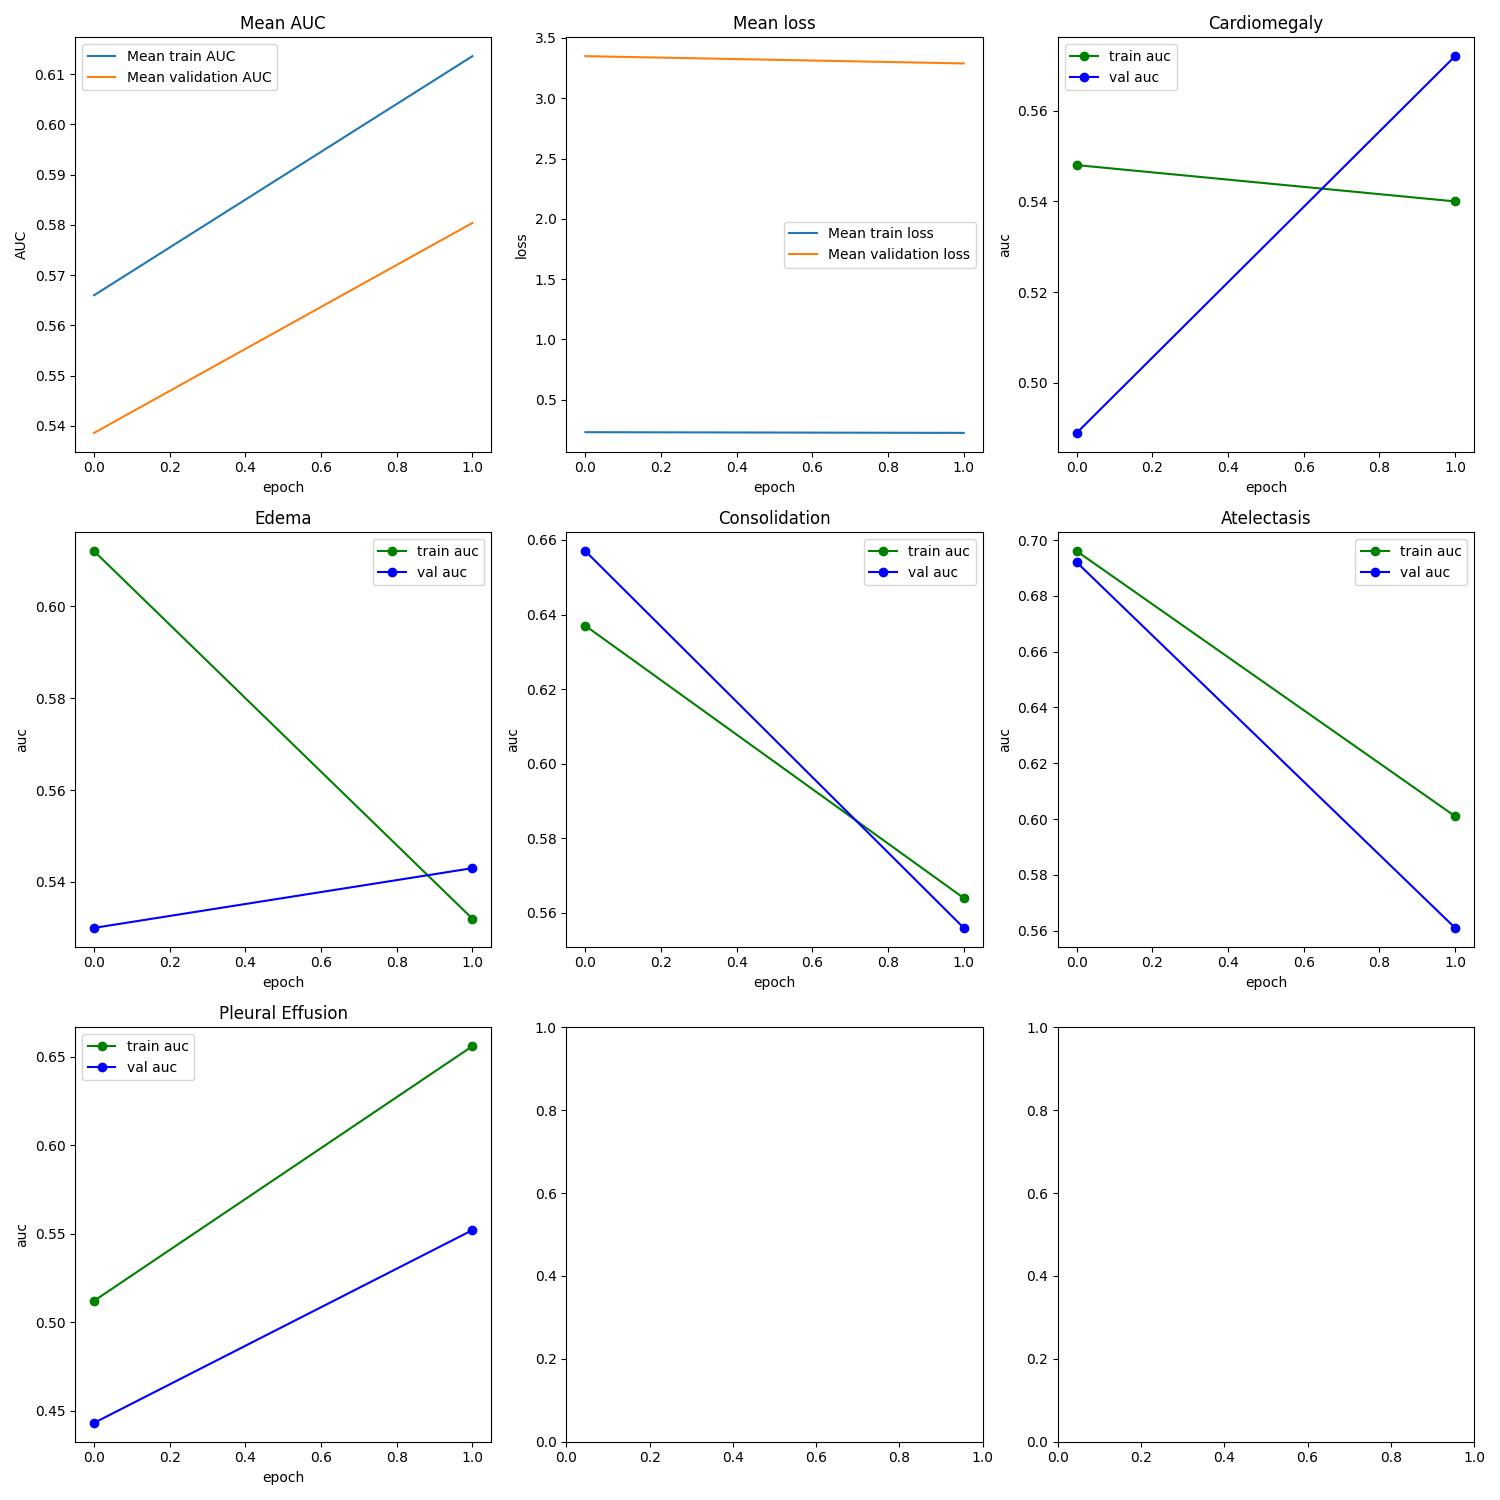
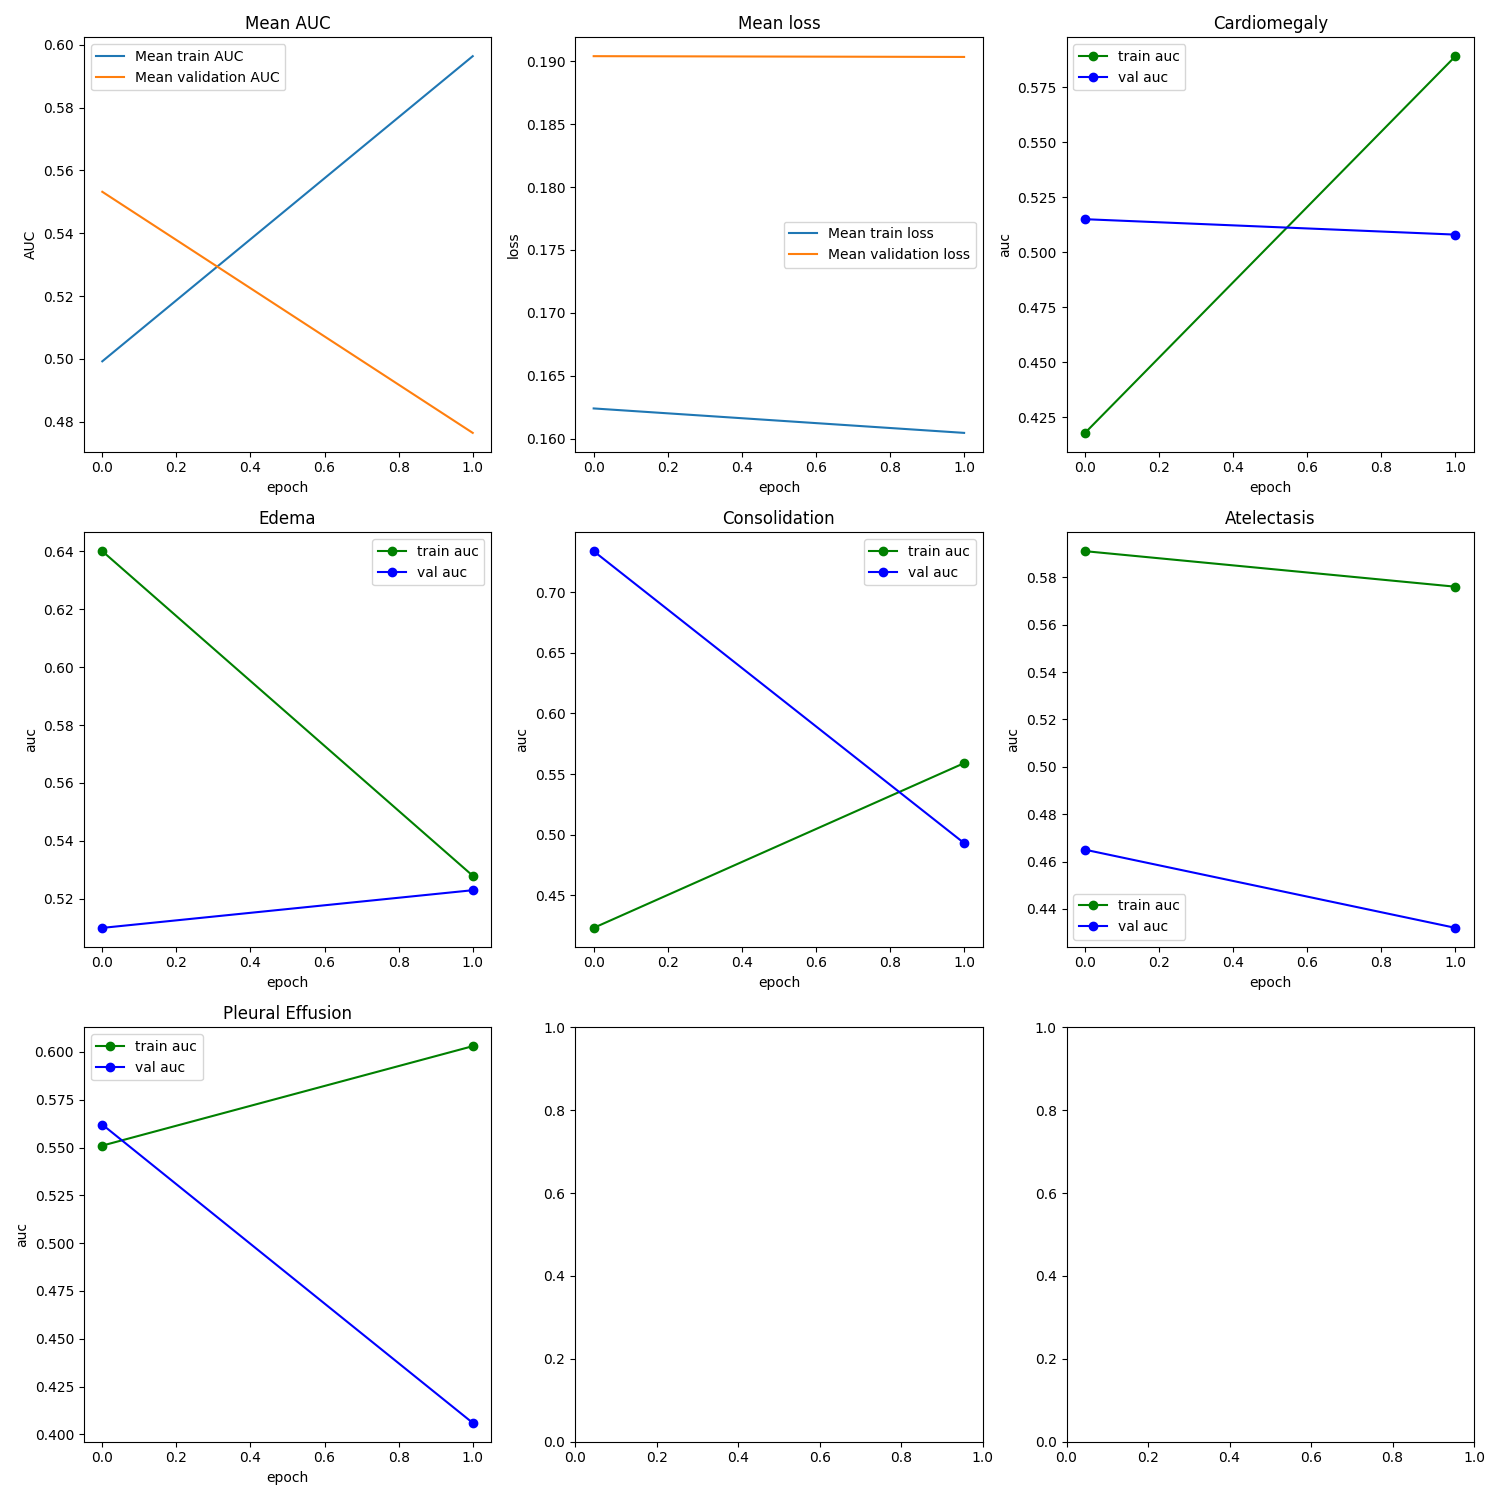
ckp

diff --git a/chexpert/model/chexpert.py b/chexpert/model/chexpert.py
@@ -2,9 +2,9 @@
 import sys
 import torch
 import json,os
-sys.path.append("/root/repo/chexpert_classification/chexpert/")
-sys.path.append("/root/repo/chexpert_classification/chexpert/model")
-sys.path.append("../model")
+# sys.path.append("/root/repo/chexpert_classification/chexpert/")
+# sys.path.append("/root/repo/chexpert_classification/chexpert/model")
+# sys.path.append("../model")
 from data.dataset import ChestDataset
 from data import dataUtils
 from data.common import csv_index
@@ -21,7 +21,6 @@ from torch.utils.data import DataLoader
 import copy
 import glob
 
-# torch.manual_seed(42)
 class chexpertNet():
     def __init__(self,cfg,device):
         self.cfg=cfg
@@ -46,12 +45,12 @@ class chexpertNet():
                 for batch_idx, (data, target) in enumerate(tepoch):
                     tepoch.set_description("Batch {}".format(batch_idx) )
                     data=data.to(self.device).float()
-                    target=target.to(self.device) 
+                    target=target.to(self.device).float()
                     optim.zero_grad()
                     output = model(data)   
                     targets.append(target)  
                     outputs.append(output)               
-                    loss = self.criterion(output=output, target=target).sum(1).mean(0)       
+                    loss = self.criterion(output, target).sum(1).mean(0)       
                     losses.update(loss.item()) 
                     loss.backward()
                     optim.step()
@@ -73,11 +72,11 @@ class chexpertNet():
             with tqdm(data_loader, unit="batch") as tepoch:
                 for idx,(data, target) in enumerate(tepoch):
                     data=data.to(self.device).float()
-                    target=target.to(self.device)              
+                    target=target.to(self.device).float()          
                     targets.append(target)
                     output =model(data)
                     outputs.append(output)        
-                    loss = self.criterion(output=output, target=target).sum(1).mean(0)    
+                    loss = self.criterion(output, target).sum(1).mean(0)    
                     losses.update(loss.item()) 
                     if idx%4==0:
                         tepoch.set_postfix(loss=loss.item())                                     
@@ -106,7 +105,7 @@ class chexpertNet():
                             targets.append(target)
                             output = model(data)
                             outputs.append(output)        
-                            loss = self.criterion(output=output, target=target).sum(1).mean(0)    
+                            loss = self.criterion(output, target).sum(1).mean(0)    
                             losses.update(loss.item()) 
                             if idx%4==0:
                                 tepoch.set_postfix(loss=loss.item())                                     
@@ -133,28 +132,47 @@ class chexpertNet():
             if lowres_train_loader is not None :
                 print(" TRAIN ON LOW-RES DATASET")         
                 for epoch in range(1, self.cfg.progressive_train.epochs + 1):
-                    print(f"[]: Epoch {epoch} of {self.cfg.progressive_train.epochs}")
-                    lowres_train_metric=self.train_epoch( data_loader=lowres_train_loader,epoch=epoch,model=self.model,optim=self.prog_optimizer)  
-                    lowres_val_metric=self.eval(data_loader=lowres_val_metric,model=self.model,epoch=epoch)
-                 
+                    print(f"[]:  Epoch {epoch} of {self.cfg.progressive_train.epochs} on Low-res dataset")
+                    self.train_epoch( data_loader=lowres_train_loader,epoch=epoch,model=self.model,optim=self.prog_optimizer)  
+             
             print(" TRAIN ON HI-RES DATASET")  
-            for epoch in range(1,self.cfg.train.epochs+1):
-                train_metric=self.train_epoch( data_loader=train_loader,epoch=epoch,model=self.model,optim=self.optimizer)              
-                train_metrics.append(train_metric)
-                val_metric=self.eval(data_loader=val_loader,model=self.model,epoch=epoch)  
-                val_metrics.append(val_metric)
-            
+            if self.cfg.train.early_stopping.use=="True":
+                best_mean_AUC=- float('inf')
+                epochs_no_improve = 0
+                for epoch in range(1,self.cfg.train.epochs+1):
+                    train_metric=self.train_epoch( data_loader=train_loader,epoch=epoch,model=self.model,optim=self.optimizer)              
+                    train_metrics.append(train_metric)
+                    
+                    val_metric=self.eval(data_loader=val_loader,model=self.model,epoch=epoch)  
+                    best_mean_AUC=max(best_mean_AUC,val_metric["meanAUC"])
+                    if val_metric["meanAUC"] == best_mean_AUC:
+                        epochs_no_improve = 0
+                    elif val_metric["meanAUC"]< best_mean_AUC:
+                        epochs_no_improve +=1
+                    if epochs_no_improve == self.cfg.train.early_stopping.patient:
+                        print (f"Early stop on epoch {epoch}")
+                        break                  
+                    val_metrics.append(val_metric)
+            else:
+                for epoch in range(1,self.cfg.train.epochs+1):
+                    train_metric=self.train_epoch( data_loader=train_loader,epoch=epoch,model=self.model,optim=self.optimizer)              
+                    train_metrics.append(train_metric)
+                    
+                    val_metric=self.eval(data_loader=val_loader,model=self.model,epoch=epoch)  
+                    best_mean_AUC=max(best_mean_AUC,val_metric["meanAUC"])
+                    val_metrics.append(val_metric)          
                 # self.lr_scheduler.step()
-      
+   
         print ("Finish default training")
         print('-'*100)
         return train_metrics ,val_metrics
     
     def test(self):
+        print(f"EVALUATING ON TEST SET")
         test_dataset= ChestDataset(cfg=self.cfg,mode="test") 
         data_loader=torch.utils.data.DataLoader(
                     test_dataset, 
-                    batch_size=1)
+                    batch_size=self.cfg.train.batch_size)
         models_save_path="/root/repo/chexpert_classification/chexpert/output/models"
         files = [f for f in os.listdir(models_save_path) if os.path.isfile(os.path.join(models_save_path, f))]
         pth_files = [f for f in files if f.endswith('.pth')]
@@ -180,7 +198,7 @@ class chexpertNet():
                     tmp_output =[model(data) for model in models]
                     output=torch.mean(torch.stack(tmp_output), dim=0)
                     outputs.append(output)        
-                    loss = self.criterion(output=output, target=target).sum(1).mean(0)    
+                    loss = self.criterion(output, target).sum(1).mean(0)    
                     losses.update(loss.item()) 
                     if idx%4==0:
                         tepoch.set_postfix(loss=loss.item())                                     
@@ -189,6 +207,61 @@ class chexpertNet():
         metric=self.metric.compute_metrics(outputs=outputs,targets=targets,losses=losses.mean)
         print (" Mean AUC : {: .3f}. AUC for each class: {}".format(metric["meanAUC"],metric["aucs"]))  
 
+    
+
+    def k_fold_train(self):
+
+        k_folds = self.cfg.k_fold
+        kfold = KFold(n_splits=k_folds, shuffle=True)
+        train_dataset=ChestDataset(cfg=self.cfg)
+    
+        lowres_train_dataset=ChestDataset(cfg=self.cfg,train_mode="progressive") if self.cfg.train_mode.name=="progressive" else None
+
+        multiple_train_metrics=[]
+        multiple_val_metrics=[]
+        self.models=self.loadModel()
+        models=[]
+
+        for fold, (train_ids, val_ids) in enumerate(kfold.split(train_dataset)):
+            print(f'FOLD {fold+1}')
+            print('--------------------------------')          
+            train_subsampler = torch.utils.data.SubsetRandomSampler(train_ids)
+            val_subsampler = torch.utils.data.SubsetRandomSampler(val_ids)
+            train_loader = torch.utils.data.DataLoader(
+                        train_dataset, 
+                        batch_size=self.cfg.train.batch_size, sampler=train_subsampler)
+            val_loader = torch.utils.data.DataLoader(
+                        train_dataset,
+                        batch_size=self.cfg.train.batch_size, sampler=val_subsampler,)
+            lowres_train_loader=torch.utils.data.DataLoader(
+                        lowres_train_dataset, 
+                        batch_size=self.cfg.train.batch_size, sampler=train_subsampler) if self.cfg.train_mode.name=="progressive" else None
+
+            
+            self.model.apply(reset_weights)
+            train_metrics,val_metrics=self.train_epochs(train_loader,val_loader,lowres_train_loader,fold)
+            multiple_train_metrics.append(train_metrics)
+            multiple_val_metrics.append(val_metrics)
+            models.append(copy.deepcopy(self.model.state_dict()))
+
+            mean_aucs_of_epochs=np.mean([data["meanAUC"] for data in val_metrics]),
+            highest_mean_auc=np.max([data["meanAUC"] for data in val_metrics] ),
+        print (f"Finish train on fold {fold+1} with mean auc of epochs {mean_aucs_of_epochs}, highes mean auc {highest_mean_auc}")
+        modelUtils.save_metrics_and_models({"train_stats":multiple_train_metrics,"val_stats":multiple_val_metrics},models)
+
+    def switch_train_test(self) :
+        # I observe that there is a significant difference between train loss and val/test loss (~ 3 for val/test loss and ~0.2 for train loss). I suspect that this is overfitting,
+        # so i try out swaping train and test set, which mean training on test set and test on train set 
+        # when run this method, val loss and train loss are almost similar, so overfit seem to be thw answer
+        train_dataset=ChestDataset(cfg=self.cfg,mode='test')
+        test_dataset=ChestDataset(cfg=self.cfg)
+        train_loader = torch.utils.data.DataLoader(
+                        train_dataset, 
+                        batch_size=self.cfg.train.batch_size)
+        test_loader = torch.utils.data.DataLoader(
+                        test_dataset,
+                        batch_size=self.cfg.train.batch_size)
+        self.train_epochs(train_loader,test_loader)
     def loadModel(self):
         if self.cfg.backbone.name=="densenet121":    
             if self.cfg.train_mode.name=="default":
@@ -215,7 +288,7 @@ class chexpertNet():
             raise Exception (" not support that criterion")
                 
     def loadOptimizer(self,model,mode="default"):
-        if mode=="default":
+       
             if self.cfg.train.optimizer.name=="Adam":         
                 op=optim.Adam(model.parameters(),lr=self.cfg.train.optimizer.lr, weight_decay=self.cfg.train.optimizer.weight_decay)
                 scheduler = StepLR(op, step_size=1, gamma=0.1,verbose=True)
@@ -226,75 +299,6 @@ class chexpertNet():
                 return op, scheduler
             else:
                 raise Exception (" not support that optimizer")
-        elif mode=="progressive":
-            if self.cfg.progressive_train.optimizer.name=="Adam":   
-                op=optim.Adam(model.parameters(),lr=self.cfg.progressive_train.optimizer.lr, weight_decay=self.cfg.progressive_train.optimizer.weight_decay)
-                scheduler = StepLR(op, step_size=1, gamma=0.1,verbose=True)
-                return op,scheduler
-            elif self.cfg.progressive_train.optimizer.name=="SGD":         
-                op= optim.SGD(model.parameters(),lr=0.005, weight_decay=0.001)
-                scheduler = StepLR(op, step_size=1, gamma=0.1,verbose=True)
-                return op, scheduler
-            else:
-                raise Exception (" not support that optimizer")
-
-    def k_fold_train(self):
-
-        k_folds = self.cfg.k_fold
-        kfold = KFold(n_splits=k_folds, shuffle=True)
-        train_dataset=ChestDataset(cfg=self.cfg)
-    
-        lowres_train_dataset=ChestDataset(cfg=self.cfg,train_mode="progressive") if self.cfg.train_mode=="progresssive" else None
-
-        multiple_train_metrics=[]
-        multiple_val_metrics=[]
-        self.models=self.loadModel()
-        models=[]
-
-        for fold, (train_ids, val_ids) in enumerate(kfold.split(train_dataset)):
-            print(f'FOLD {fold+1}')
-            print('--------------------------------')          
-            train_subsampler = torch.utils.data.SubsetRandomSampler(train_ids)
-            val_subsampler = torch.utils.data.SubsetRandomSampler(val_ids)
-            train_loader = torch.utils.data.DataLoader(
-                        train_dataset, 
-                        batch_size=self.cfg.train.batch_size, sampler=train_subsampler)
-            val_loader = torch.utils.data.DataLoader(
-                        train_dataset,
-                        batch_size=self.cfg.train.batch_size, sampler=val_subsampler,)
-            lowres_train_loader=torch.utils.data.DataLoader(
-                        lowres_train_dataset, 
-                        batch_size=self.cfg.train.batch_size, sampler=train_subsampler) if self.cfg.train_mode=="progresssive" else None
-            # lowres_val_loader=torch.utils.data.DataLoader(
-            #             lowres_train_dataset,
-            #             batch_size=1, sampler=val_subsampler)if self.cfg.train_mode=="progresssive" else None
-            
-            self.model.apply(reset_weights)
-            train_metrics,val_metrics=self.train_epochs(train_loader,val_loader,lowres_train_loader,fold)
-            multiple_train_metrics.append(train_metrics)
-            multiple_val_metrics.append(val_metrics)
-            models.append(copy.deepcopy(self.model.state_dict()))
-
-            mean_aucs_of_epochs=np.mean([data["meanAUC"] for data in val_metrics]),
-            highest_mean_auc=np.max([data["meanAUC"] for data in val_metrics] ),
-        print (f"Finish train on fold {fold+1} with mean auc of epochs {mean_aucs_of_epochs}, highes mean auc {highest_mean_auc}")
-        modelUtils.save_metrics_and_models({"train_stats":multiple_train_metrics,"val_stats":multiple_val_metrics},models)
-
-    def switch_train_test(self) :
-        # I observe that there is a significant difference between train loss and val/test loss (~ 3 for val/test loss and ~0.2 for train loss). I suspect that this is overfitting,
-        # so i try out swaping train and test set, which mean training on test set and test on train set 
-        # when run this method, val loss and train loss are almost similar, so overfit seem to be thw answer
-        train_dataset=ChestDataset(cfg=self.cfg,mode='test')
-        test_dataset=ChestDataset(cfg=self.cfg)
-        train_loader = torch.utils.data.DataLoader(
-                        train_dataset, 
-                        batch_size=self.cfg.train.batch_size)
-        test_loader = torch.utils.data.DataLoader(
-                        test_dataset,
-                        batch_size=self.cfg.train.batch_size)
-        self.train_epochs(train_loader,test_loader)
-        
-            
 
 
 def reset_weights(m):

diff --git a/chexpert/data/dataset.py b/chexpert/data/dataset.py
@@ -4,7 +4,10 @@ import torch
 import numpy as np
 from torch.utils.data import Dataset
 import sys
-sys.path.append("/root/repo/chexpert_classification/chexpert/")
+
+sys.path.append( "/root/repo/chexpert_classification/chexpert/" )
+
+
 from data import dataUtils
 import torch
 import numpy as np

diff --git a/README.md b/README.md
@@ -1,1 +1,39 @@
-# cv-ducnguyen
+
+# CheXpert classification
+
+## Purpose
+This repository attempts to classifying 5 classes of CheXpert dataset (Cardiomegaly, Endema, Atelectasis, Pleural Effusion) using different combination of training techniques.
+## Dataset
+CheXpert is a extensive collection of chest X-rays used for automating chest X-ray analysis. This dataset includes uncertainty labels and sets evaluated by radiologists, serving as a benchmark for automated interpretations.
+To download the dataset, visit this kaggle website: https://www.kaggle.com/datasets/mimsadiislam/chexpert
+## Installation
+Clone the repository
+```bash
+git clone https://github.com/nguyenbanhducA1K51/chexpert_classification.git
+```
+cd to the subdirectory 
+```bash
+cd chexpert_classification/chexpert
+```
+
+and use the package manager [pip](https://pip.pypa.io/en/stable/) to install libary and package in file requirements.txt (recommend install in conda environment).
+
+```bash
+pip install -r requirements.txt
+```
+
+## Usage
+
+- Open the chexpert/config/config.py file and change the value of following variable:
+"project_path": "path where you clone the this repository"
+"root_path": "path where you download your dataset"
+"train_csv_path": "path to train csv file"
+ "test_csv_path": "path to test csv file"
+- To adjust other parameter, look at other variable in this config file and some explainations at conifg_instruction.py
+- Run the training pipeline by
+```bash
+python3 __main__.py
+```
+
+
+
